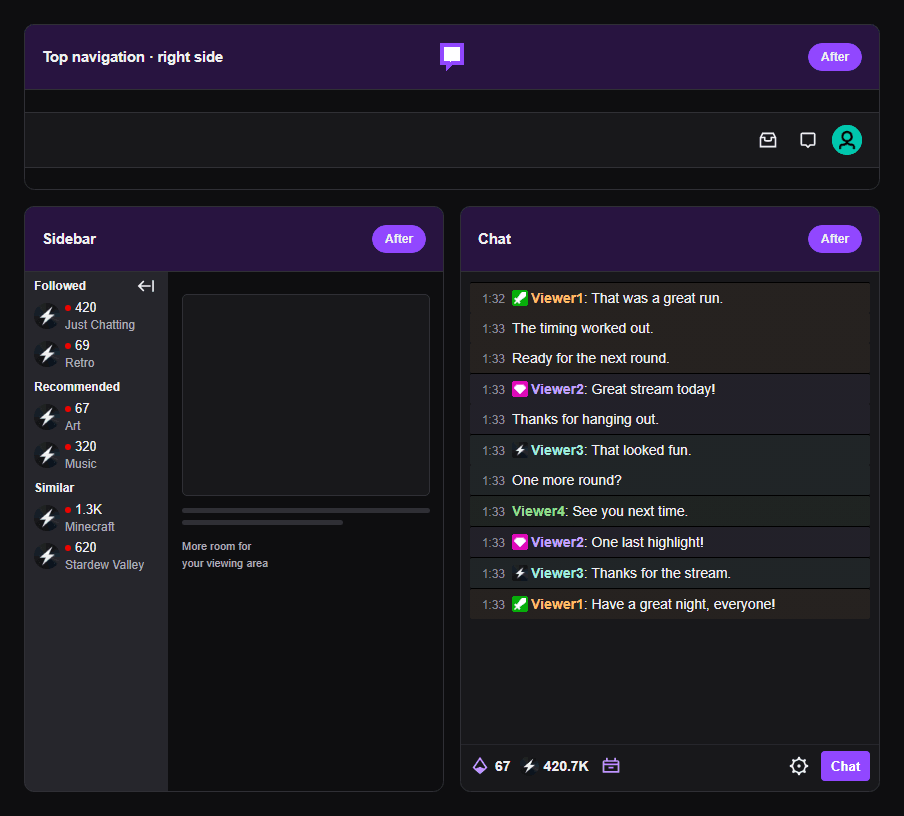
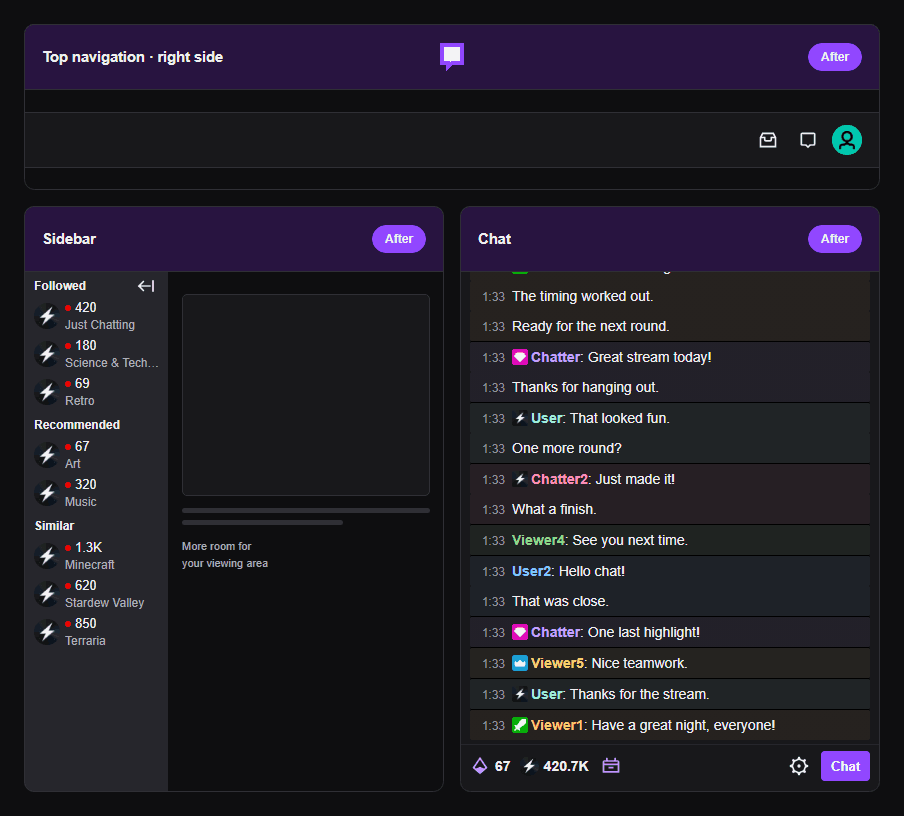
Release 0.28.0 with popup polish and refreshed previews
- Add toggle styling and changelog-based release notes
- Refresh README previews and align installation instructions

Changed region(s): [[0.5265, 0.337, 0.8673, 0.9191], [0.031, 0.3983, 0.1549, 0.7966]]

diff --git a/tests/fixtures/readme-preview.html b/tests/fixtures/readme-preview.html
@@ -77,7 +77,7 @@
   .leader-label { color:var(--preview-accent); font-size:10px; font-weight:700; letter-spacing:1px; }
   .leader-row { display:flex; align-items:center; justify-content:space-between; margin-top:9px; font-size:12px; }
   .leader-row small { color:#adadb8; }
-  .video-chat__message-list-wrapper { flex:1; min-height:0; overflow:auto; padding:10px 10px 16px; scrollbar-width:thin; scrollbar-color:#53535d transparent; }
+  .video-chat__message-list-wrapper { flex:1; min-height:0; overflow:auto; padding:10px 10px 4px; scrollbar-width:thin; scrollbar-color:#53535d transparent; }
   .vod-message { display:flex; gap:7px; line-height:20px; padding:5px 4px; }
   /* A flex header avoids an extra anonymous text line below the timestamp button. */
   .vod-message__header { display:flex; align-items:baseline; flex:none; }
@@ -175,29 +175,37 @@
   document.querySelector('[data-profile-avatar]').src = icons.profile;
   document.querySelectorAll('[data-icon]').forEach(button => button.insertAdjacentHTML('afterbegin', icons[button.dataset.icon]));
   const sections = [
-    ['Followed Channels', [['Channel 1','Just Chatting','420'],['Channel 2','Retro','69'],['Channel 3','Offline','']]],
+    ['Followed Channels', [['Channel 1','Just Chatting','420'],['Channel 8','Science & Technology','180'],['Channel 2','Retro','69'],['Channel 3','Offline',''],['Channel 9','Offline','']]],
     ['Live Channels', [['Channel 4','Art','67'],['Channel 5','Music','320']]],
-    ['Viewers Also Watch', [['Channel 6','Minecraft','1.3K'],['Channel 7','Stardew Valley','620']]]
+    ['Viewers Also Watch', [['Channel 6','Minecraft','1.3K'],['Channel 7','Stardew Valley','620'],['Channel 11','Terraria','850']]]
   ];
   document.querySelector('#demo-sidebar-sections').innerHTML = sections.map(([heading, rows], index) => `<section class="side-nav-section" aria-label="${heading}"><div class="${index ? 'side-nav-header' : 'followed-side-nav-header'}"><h3>${heading}</h3></div>${rows.map(([name,game,count]) => `<div class="side-nav-card"><a class="side-nav-card__link ${count ? '' : 'side-nav-card__link--offline'}" href="/example" aria-label="${name}"><div class="side-nav-card__avatar"><div class="tw-avatar"><img src="${icons.avatar}" alt="Anonymous avatar"></div></div><div class="native-details"><div><div data-a-target="side-nav-card-metadata"><div class="side-nav-card__title">${name}</div><div class="side-nav-card__metadata"><p>${game}</p></div></div><div data-a-target="side-nav-live-status"><span aria-hidden="true">${count}</span></div></div></div></a></div>`).join('')}</section>`).join('');
   const badge = (name, image) => `<span class="badge-layout"><button data-a-target="chat-badge" aria-label="${name}"><img class="chat-badge" alt="${name} badge" src="${image}"></button></span>`;
   const chatterBadges = {
     Viewer1: badge('Moderator', icons.moderator) + badge('Subscriber', icons.avatar) + badge('Prime', icons.prime),
-    Viewer2: badge('VIP', icons.vip) + badge('Prime', icons.prime),
-    Viewer3: badge('Subscriber', icons.avatar) + badge('Prime', icons.prime),
-    Viewer4: ''
+    Chatter: badge('VIP', icons.vip) + badge('Prime', icons.prime),
+    User: badge('Subscriber', icons.avatar) + badge('Prime', icons.prime),
+    Viewer4: '',
+    Chatter2: badge('Subscriber', icons.avatar),
+    User2: '',
+    Viewer5: badge('Prime', icons.prime)
   };
   const messages = [
     ['Viewer1','#ffbd69','1:32:56','That was a great run.'],
     ['Viewer1','#ffbd69','1:33:08','The timing worked out.'],
     ['Viewer1','#ffbd69','1:33:12','Ready for the next round.'],
-    ['Viewer2','#c3a5ff','1:33:20','Great stream today!'],
-    ['Viewer2','#c3a5ff','1:33:24','Thanks for hanging out.'],
-    ['Viewer3','#a2ecdf','1:33:30','That looked fun.'],
-    ['Viewer3','#a2ecdf','1:33:34','One more round?'],
+    ['Chatter','#c3a5ff','1:33:20','Great stream today!'],
+    ['Chatter','#c3a5ff','1:33:24','Thanks for hanging out.'],
+    ['User','#a2ecdf','1:33:30','That looked fun.'],
+    ['User','#a2ecdf','1:33:34','One more round?'],
+    ['Chatter2','#ff91b7','1:33:36','Just made it!'],
+    ['Chatter2','#ff91b7','1:33:38','What a finish.'],
     ['Viewer4','#8fdb8b','1:33:40','See you next time.'],
-    ['Viewer2','#c3a5ff','1:33:45','One last highlight!'],
-    ['Viewer3','#a2ecdf','1:33:50','Thanks for the stream.'],
+    ['User2','#82c8ff','1:33:42','Hello chat!'],
+    ['User2','#82c8ff','1:33:44','That was close.'],
+    ['Chatter','#c3a5ff','1:33:45','One last highlight!'],
+    ['Viewer5','#f1dc78','1:33:48','Nice teamwork.'],
+    ['User','#a2ecdf','1:33:50','Thanks for the stream.'],
     ['Viewer1','#ffbd69','1:33:56','Have a great night, everyone!']
   ];
   document.querySelector('#demo-messages').innerHTML = messages.map(([name,color,time,message]) => `<div class="vod-message"><div class="vod-message__header"><button><p>${time}</p></button></div><div class="message-content"><span>${chatterBadges[name]}</span><a class="video-chat__message-author" href="/${name.toLowerCase()}"><span data-a-target="chat-message-username" style="color:${color}">${name}</span></a><div class="video-chat__message"><span>:</span> <span data-a-target="chat-message-text">${message}</span></div></div></div>`).join('');

diff --git a/CHANGELOG.md b/CHANGELOG.md
@@ -3,6 +3,13 @@
 Release history, newest first. For current checks and limits, see
 [validation notes](docs/validation.md).
 
+## 0.28.0 - Popup polish and changelog release notes
+
+- Style settings as toggle switches with keyboard focus and forced-colors support.
+- Animate settings scrolling while respecting reduced-motion preferences.
+- Use the matching changelog entry for GitHub Release descriptions.
+- Align README and standalone ZIP installation instructions.
+
 ## 0.27.0 - Direct release downloads
 
 - Publish validated release ZIPs from CI and link the latest download in the README.
